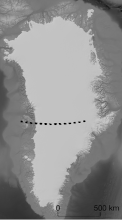
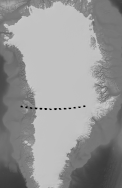
Crop out scale on inset.

diff --git a/paper/genfigs/giscross.py b/paper/genfigs/giscross.py
@@ -38,5 +38,5 @@ plt.yticks(fontsize=14.0)
 plt.minorticks_off()
 plt.axis([0.0,L,-100.0,3500.0])
 im = plt.imread('gis/gris-profile-gray.png')  # image is 200 pixels tall
-plt.figimage(im, 125.0, 85.0)  # offset in pixels
+plt.figimage(im, 135.0, 100.0)  # offset in pixels
 writeout('giscross.pdf')
